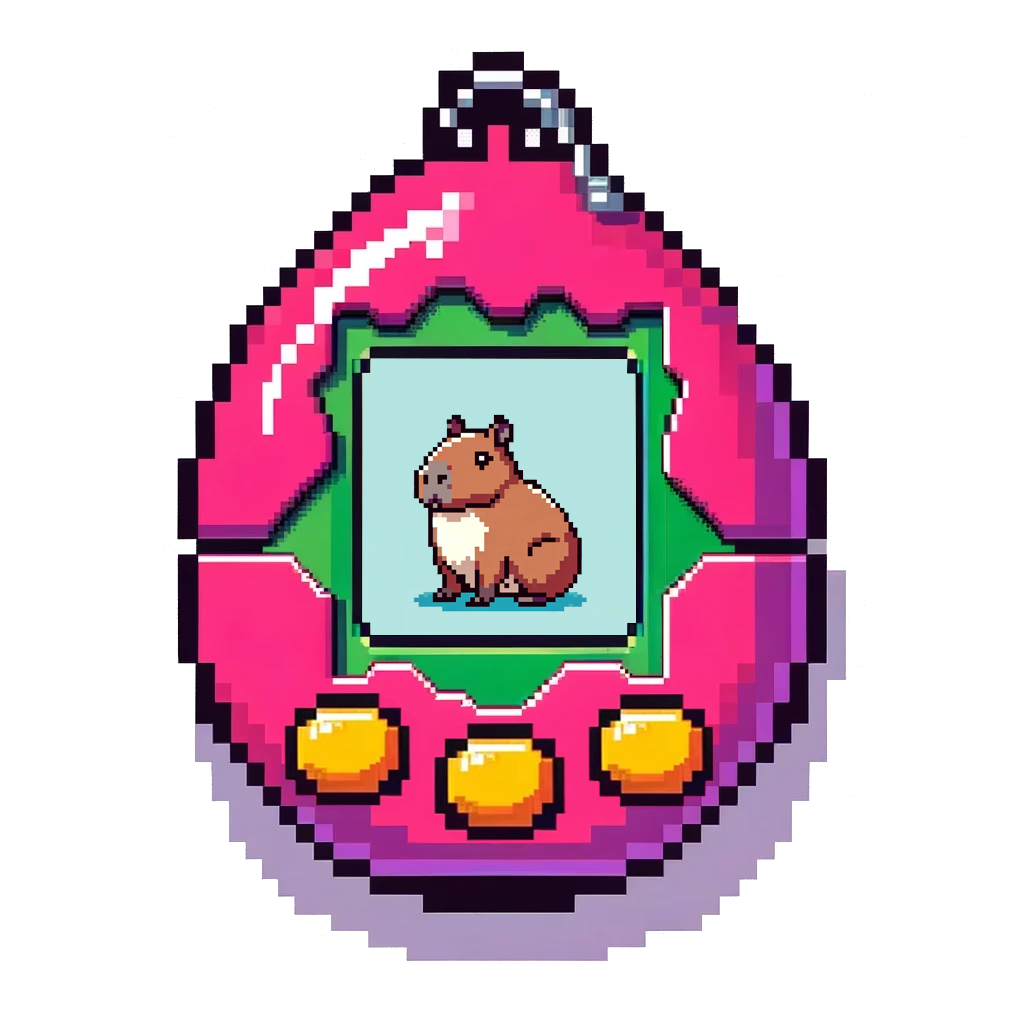
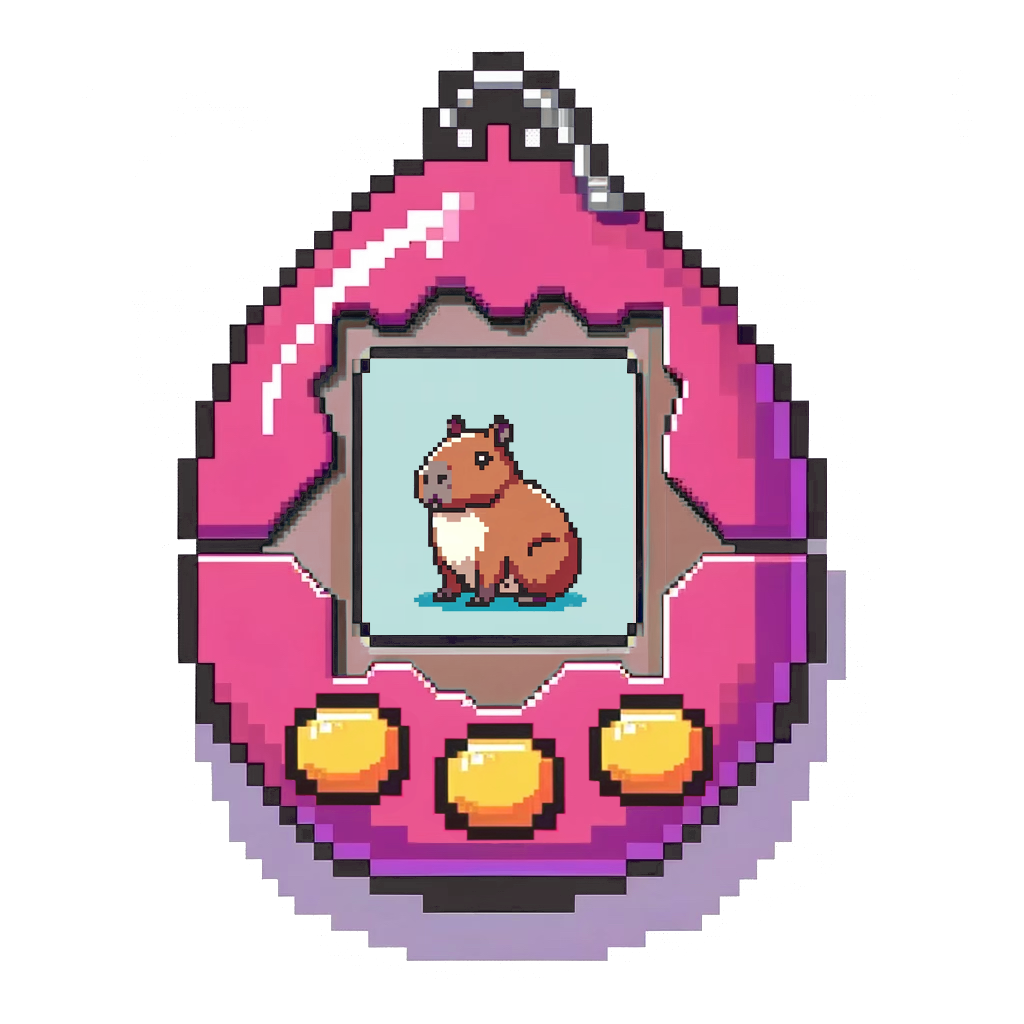
added colour palette and updated image

Changed region(s): [[0.1562, 0.0312, 0.8125, 0.9062], [0.4375, 0.4062, 0.5, 0.4688], [0.4062, 0.4688, 0.4375, 0.5]]

diff --git a/index.html b/index.html
@@ -9,19 +9,36 @@
 <body>
     <h1>Coco Capybara</h1>
 
-    <img src="cococapybaraexample.png" alt="Tamagotchi with Capybara Animal" style="width:500px">
+    <div class="image-container">
+        <img src="cococapybaraexample.png" alt="Tamagotchi with Capybara Animal" style="width:60%">
+        <button id="feedButton">Feed</button>
+        <button id="playButton">Play</button>
+        <button id="sleepButton">Sleep</button>
+    </div>
 
-    <br>
+    <p class="mood">Mood: <span id="moodDisplay">-</span></p>
 
-    <button id="feedButton">Feed</button>
-    <button id="playButton">Play</button>
-    <button id="sleepButton">Sleep</button>
+    <p class="meter-text">Fullness:</p>
+    <div class="meter">
+        <div id="fullness-meter" class="meter-bar"></div>
+    </div>
+    <p class="meter-text">Happiness:</p>
+    <div class="meter">
+        <div id="happiness-meter" class="meter-bar"></div>
+    </div>
+    <p class="meter-text">Energy:</p>
+    <div class="meter">
+        <div id="energy-meter" class="meter-bar"></div>
+    </div>
 
-    <p>Fullness: <span id="fullnessMeter">0</span></p>
-    <p>Happiness: <span id="happinessMeter">0</span></p>
-    <p>Energy: <span id="energyMeter">0</span></p>
-
-    <p>Mood: <span id="moodDisplay">-</span></p>
+    <h3>Instructions</h3>
+    <p class="instruction-text">Coco is delighted you are looking after her! Please note her special care instructions:</p>
+    <p class="numbered-instruction">1. Coco loves to eat! Give her a little snack by clicking the <span class="instruction-button">feed</span> button.</p>
+    <p class="instruction-text">Be careful though, the more she eats the more it tuckers her out - if she gets too full she'll enter a food coma!</p>
+    <p class="numbered-instruction">2. Coco loves company! Play with her by clicking the <span class="instruction-button">play</span> button.</p>
+    <p class="instruction-text">All of this playing sure does work up her appetite, make sure you feed her to keep her going!</p>
+    <p class="numbered-instruction">3. Coco needs her rest! Get her to have a nap by clicking the <span class="instruction-button">sleep</span> button.</p>
+    <p class="instruction-text">Sleeping by herself too much makes her feel a bit lonely, so do play with her to keep her spirits up!</p>
 
     <script src="main.js"></script>
 </body>

diff --git a/main.js b/main.js
@@ -5,9 +5,17 @@ let energy = 50;
 
 // Update meter values on the web page
 function updateMeters() {
-    document.getElementById("fullnessMeter").textContent = fullness;
-    document.getElementById("happinessMeter").textContent = happiness;
-    document.getElementById("energyMeter").textContent = energy;
+    // document.getElementById("fullnessMeter").textContent = fullness;
+    // document.getElementById("happinessMeter").textContent = happiness;
+    // document.getElementById("energyMeter").textContent = energy;
+    
+    const fullnessMeter = document.getElementById('fullness-meter');
+    const happinessMeter = document.getElementById('happiness-meter');
+    const energyMeter = document.getElementById('energy-meter');
+
+    fullnessMeter.style.width = fullness + '%';
+    happinessMeter.style.width = happiness + '%';
+    energyMeter.style.width = energy + '%';
 }
 
 updateMeters();
@@ -20,7 +28,7 @@ function updateMood() {
         mood = "Coco is crying!";
     } else if (fullness >= 100 || energy === 0) {
         energy = 0;
-        mood = "Coco needs to sleep.";
+        mood = "Coco needs to sleep, please leave her to nap for 10 seconds.";
         setTimeout(() => {
             energy = 50;
             fullness = 50;
@@ -30,21 +38,21 @@ function updateMood() {
         }, 10000);
     } else {
         if (fullness < 40) {
-            mood += "Coco is hungry"
+            mood += "hungry"
         }
         if (happiness < 40) {
             if (mood !== "") {
                 mood += " and ";
             }
-            mood += "Coco is lonely";
+            mood += "lonely";
         }
         if (energy < 40) {
             if (mood !== "") {
                 mood += " and ";
             }
-            mood += "Coco is tired";
+            mood += "tired";
         }
-        mood = mood !== "" ? mood : "Coco is content";
+        mood = mood !== "" ? "Coco is " + mood : "Coco is content";
     }
 
     document.getElementById("moodDisplay").textContent = mood;
@@ -101,6 +109,7 @@ function sleep() {
     updateMood();
 }
 
+// Function to decrease Coco's energy at timed intervals
 function decreaseEnergy() {
     if (energy > 0) {
         energy -= 10;

diff --git a/styles.css b/styles.css
@@ -1,11 +1,65 @@
 @font-face {
-    font-family: 'ARCADE';
-        src: url('fonts/ARCADE.ttf');
+    font-family: 'DP Comic';
+        src: url('fonts/dpcomic.ttf');
     font-weight: normal;
     font-style: normal;
     font-display: swap;
 }
 
 html {
-    font-family: ARCADE;
+    font-family: DP Comic;
+    background-color: #faf6f6;
+    display: flex;
+    justify-content: center;
+}
+
+h1 {
+    color: #54494B;
+    text-align: center;
+}
+
+button {
+    font-family: DP Comic;
+    background: 0;
+    border: 0;
+    color: #312c2c;
+}
+
+.mood {
+    color: #54494B;
+}
+
+.meter {
+    width: 200px;
+    height: 10px;
+    background-color: #ded5d0;
+    border: 0;
+    border-radius: 2px;
+    overflow: hidden;
+}
+
+.meter-bar {
+    height: 100%;
+    background-color: #fd7fa9;
+    transition: width 0.5s ease-in-out;
+}
+
+.meter-text {
+    color: #54494B;
+}
+
+h3 {
+    color: #54494B;
+}
+
+.instruction-text {
+    color: #54494B;
+}
+
+.numbered-instruction {
+    color: #54494B;
+}
+
+.numbered-instruction .instruction-button {
+    color: #ac99bf;
 }
